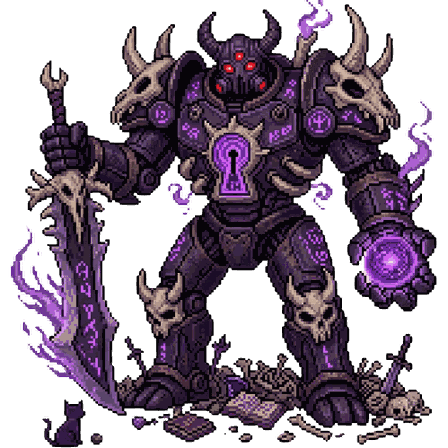
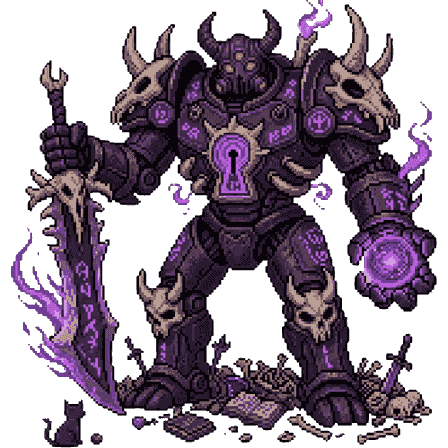
p2(perf): 画像を圧縮し、img に width/height を付けた
アイコンが上限の4〜8倍あった。favicon は 512x512 もあり、
タブに 16px で出すためだけに 238KB を配っていた。

| ファイル | 大きさ | before | after |
|---|---|---:|---:|
| favicon.png | 512→192 | 238.2KB | 12.7KB |
| icon-512.png | 512 | 282.1KB | 19.9KB |
| icon-maskable-512.png | 512 | 176.8KB | 12.9KB |
| icon-192.png | 192 | 48.3KB | 4.1KB |
| icon-maskable-192.png | 192 | 30.5KB | 2.8KB |
| apple-touch-icon.png | 180 | 43.6KB | 3.7KB |
| bosses/ 4枚 | 448 | 167.2KB | 114.3KB |
| characters/ 4枚 | 448 | 233.5KB | 105.5KB |
| **合計** | | **1220.3KB** | **276.0KB** |

やったことは大きさを変えずに色数を256色に落としただけ(favicon のみ 192px に縮小)。
目標(icon-512 60KB以下 / favicon 30KB以下 / 一般画像 150KB以下)はすべて満たした。
150KB を超える画像は0枚になった。

ボスと画家のドット絵は色数がもともと少ないので、パレット化しても見た目が
変わらない。念のため before/after を並べて目視で確認している。

元画像は .assets-original/ に退避せず、この1つ前のコミットから
そのまま取り出せるようにした(git show <このコミットの親>:public/icon-512.png)。
リポジトリに同じ絵を2組置いても重くなるだけのため。

あわせて、じんとりバトルの画家の絵に width/height を付けた。
読みこみ前の高さが0で、絵が出たしゅんかんに下のスコアがずれていた(CLS)。

確認: npm test 全パス。npm run build 成功。dist 全体 9.1MB → 8.2MB。

Claude-Session: https://claude.ai/code/session_012pdrXTFuTj2nMhFaRgucEG

diff --git a/src/TerritoryBattle.jsx b/src/TerritoryBattle.jsx
@@ -408,7 +408,11 @@ export const TerritoryCharacter = ({ mood = 'idle', line, team, bubble = true, b
         <AnimatePresence mode="wait">
           <motion.div key={mood} className="absolute inset-0"
             initial={{ opacity: 0, scale: 0.7 }} animate={{ opacity: 1, scale: 1 }} exit={{ opacity: 0, scale: 0.7 }} transition={{ duration: 0.2 }}>
+            {/* width/height は元画像と同じ 448。入れておかないと読みこみ前の高さが 0 になり、
+                絵が出たしゅんかん下のスコアがガクッとずれる(CLS)。decoding=async は
+                デコード待ちで盤面の操作が止まらないようにするため（Part I §2-6） */}
             <motion.img src={territoryCharacterUrl(mood)} alt={TERRITORY_CHARACTER_NAME} draggable={false}
+              width={448} height={448} decoding="async"
               className="w-full h-full object-contain"
               style={{ filter: 'drop-shadow(0 3px 4px rgba(0,0,0,0.3))' }}
               animate={m.anim} transition={m.transition} />
